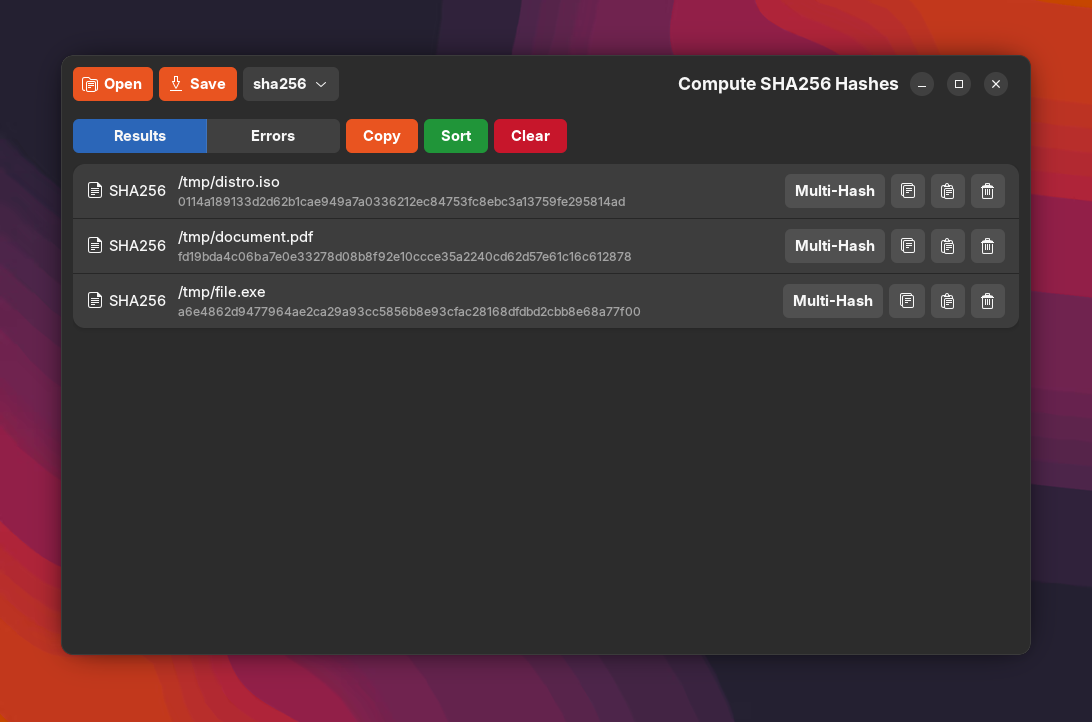
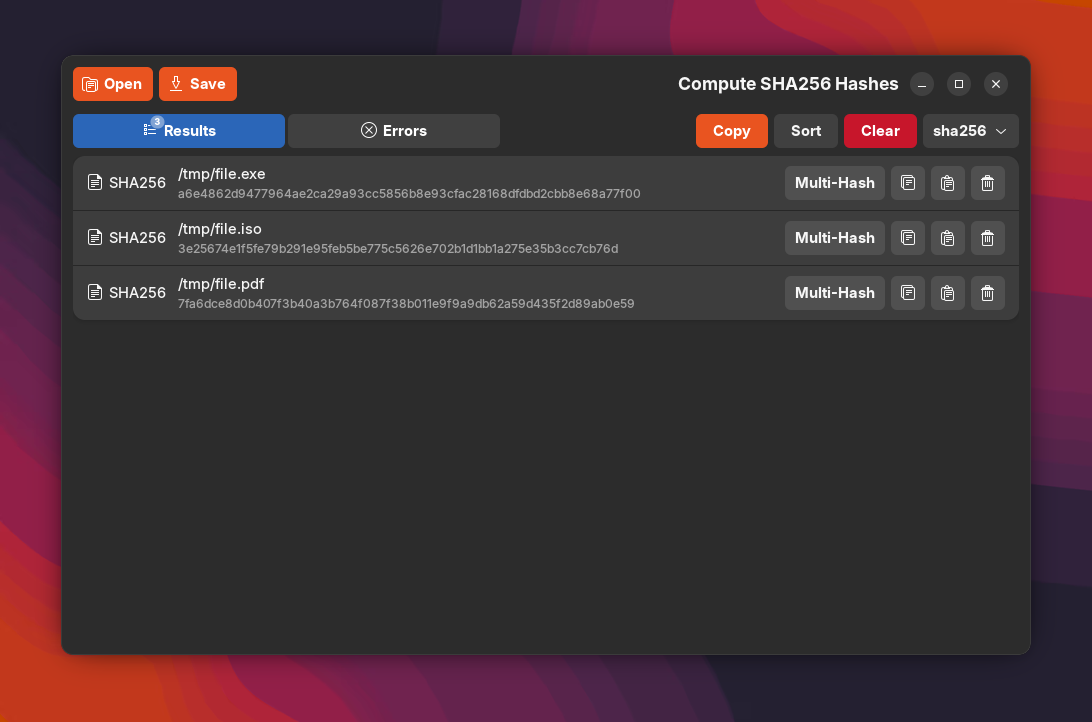
Improve has_results

diff --git a/compute-hash-app.py b/compute-hash-app.py
@@ -6,6 +6,7 @@ import subprocess
 import sys
 import threading
 from concurrent.futures import ThreadPoolExecutor
+from datetime import datetime
 from pathlib import Path
 from queue import Queue
 from typing import Literal
@@ -37,10 +38,26 @@ def get_logger(name: str) -> logging.Logger:
 logger = get_logger(__name__)
 
 css = b"""
+.view-switcher button {
+    background-color: #404040;
+    color: white;
+    transition: background-color 0.5s ease;
+    }
+.view-switcher button:nth-child(1):hover {
+    background-color: #2b66b8;
+}
+.view-switcher button:nth-child(1):active {
+    background-color: #1c457e;
+}
 .view-switcher button:nth-child(1):checked {
     background-color: #2b66b8;
 }
-
+.view-switcher button:nth-child(2):hover {
+    background-color: #c7162b;
+}
+.view-switcher button:nth-child(2):active {
+    background-color: #951323;
+}
 .view-switcher button:nth-child(2):checked {
     background-color: #c7162b;
 }
@@ -170,22 +187,20 @@ class HashResultRow(Adw.ActionRow):
 
     def on_delete_clicked(self, button: Gtk.Button):
         button.set_sensitive(False)
-        target = Adw.CallbackAnimationTarget.new(lambda opacity: self.set_opacity(opacity))
         anim = Adw.TimedAnimation(
             widget=self,
             value_from=1.0,
             value_to=0.0,
             duration=200,
-            target=target,
+            target=Adw.CallbackAnimationTarget.new(lambda opacity: self.set_opacity(opacity)),
         )
 
-        def on_fade_done(animation):
-            main_window: MainWindow = button.get_root()
-            if self.get_parent() == main_window.ui_results:
-                main_window.ui_results.remove(self)
-            else:
-                main_window.ui_errors.remove(self)
-            main_window.has_results()
+        def on_fade_done(_):
+            parent: Gtk.ListBox = self.get_parent()
+            parent.remove(self)
+            if parent.get_first_child() is None:
+                main_window: MainWindow = parent.get_root()
+                main_window.has_results()
 
         anim.connect("done", on_fade_done)
         anim.play()
@@ -234,6 +249,10 @@ class MainWindow(Adw.ApplicationWindow):
             description="Select files or folders to compute their hashes.",
             icon_name="text-x-generic-symbolic",
         )
+        self.empty_error_placeholder = Adw.StatusPage(
+            title="No Errors",
+            icon_name="emblem-ok-symbolic",
+        )
         self.toast_overlay = Adw.ToastOverlay()
         self.set_content(self.toast_overlay)
 
@@ -264,7 +283,6 @@ class MainWindow(Adw.ApplicationWindow):
         self.spinner.set_size_request(100, 100)
         self.spinner.set_valign(Gtk.Align.CENTER)
         self.spinner.start()
-
         self.main_box = Gtk.Box(orientation=Gtk.Orientation.VERTICAL, spacing=12)
 
         self.main_content_overlay.add_overlay(self.spinner)
@@ -304,9 +322,12 @@ class MainWindow(Adw.ApplicationWindow):
         self.view_stack.set_visible_child_name("results")
         self.main_box.append(self.view_stack)
 
+        self.view_stack.connect("notify::visible-child", self.has_results)
+
     def setup_buttons(self):
         self.button_open = Gtk.Button()
         self.button_open.add_css_class("suggested-action")
+        self.button_open.set_valign(Gtk.Align.CENTER)
         self.button_open.set_tooltip_text("Select files to add")
         self.button_open.connect("clicked", self.on_select_files_clicked)
         self.button_open_content = Adw.ButtonContent.new()
@@ -319,6 +340,7 @@ class MainWindow(Adw.ApplicationWindow):
         self.button_save = Gtk.Button()
         self.button_save.set_sensitive(False)
         self.button_save.add_css_class("suggested-action")
+        self.button_save.set_valign(Gtk.Align.CENTER)
         self.button_save.set_tooltip_text("Save results to file")
         self.button_save.connect("clicked", self.on_save_clicked)
         self.button_save_content = Adw.ButtonContent.new()
@@ -365,7 +387,6 @@ class MainWindow(Adw.ApplicationWindow):
 
         self.button_sort = Gtk.Button(label="Sort")
         self.button_sort.set_sensitive(False)
-
         self.button_sort.set_valign(Gtk.Align.CENTER)
         self.button_sort.set_tooltip_text("Sort results by path")
         self.button_sort.connect(
@@ -496,8 +517,10 @@ class MainWindow(Adw.ApplicationWindow):
             elif update[0] == "error":
                 _, fname, err, algo = update
                 self.add_result(fname, err, algo, is_error=True)
-                self.add_toast(f"<big>❌ <b>{err}</b></big>")
+                # self.add_toast(f"<big>❌ <b>{err}</b></big>")
                 iterations += 1
+            else:
+                return False
         return True  # Continue monitoring
 
     def hide_progress(self):
@@ -590,13 +613,12 @@ class MainWindow(Adw.ApplicationWindow):
         vadjustment = self.results_scrolled_window.get_vadjustment()
         current_value = vadjustment.get_value()
         target_value = vadjustment.get_upper() - vadjustment.get_page_size()
-        animation_target = Adw.CallbackAnimationTarget.new(lambda value: vadjustment.set_value(value))
         Adw.TimedAnimation(
             widget=self,
             value_from=current_value,
             value_to=target_value,
             duration=500,
-            target=animation_target,
+            target=Adw.CallbackAnimationTarget.new(lambda value: vadjustment.set_value(value)),
         ).play()
 
     def add_result(self, file_name: str, hash_value: str, algo: str, is_error: bool = False):
@@ -608,22 +630,31 @@ class MainWindow(Adw.ApplicationWindow):
             self.ui_results.append(row)
         return row
 
-    def has_results(self):
-        has_results = self.ui_results.get_first_child() is not None or self.ui_errors.get_first_child() is not None
-        self.toolbar_view.set_content(self.main_content_overlay if has_results else self.empty_placeholder)
-        self.view_switcher.set_sensitive(has_results)
-        self.button_save.set_sensitive(has_results)
-        self.button_copy_all.set_sensitive(has_results)
+    def has_results(self, *signal_from_view_stack):
+        has_results = self.ui_results.get_first_child() is not None
+        has_errors = self.ui_errors.get_first_child() is not None
+
+        self.view_switcher.set_sensitive(has_results or has_errors)
+        self.button_save.set_sensitive(has_results or has_errors)
+        self.button_copy_all.set_sensitive(has_results or has_errors)
         self.button_sort.set_sensitive(has_results)
-        self.button_clear.set_sensitive(has_results)
-        self.results_stack_page.set_badge_number(sum(has_results for r in self.ui_results) if has_results else 0)
-        self.errors_stack_page.set_badge_number(sum(has_results for r in self.ui_errors) if has_results else 0)
+        self.button_clear.set_sensitive(has_results or has_errors)
+        self.results_stack_page.set_badge_number(sum(1 for _ in self.ui_results) if has_results else 0)
+        self.errors_stack_page.set_badge_number(sum(1 for _ in self.ui_errors) if has_errors else 0)
+
+        current_page_name = self.view_stack.get_visible_child_name()
+        show_empty = (current_page_name == "results" and not has_results) or (current_page_name == "errors" and not has_errors)
+        relevant_placeholder = self.empty_placeholder if current_page_name == "results" else self.empty_error_placeholder
+        target = relevant_placeholder if show_empty else self.main_content_overlay
+        if self.toolbar_view.get_content() == target and not signal_from_view_stack:
+            return
+        self.toolbar_view.set_content(target)
         Adw.TimedAnimation(
-            widget=self.empty_placeholder,
-            value_from=1.0 if has_results else 0,
-            value_to=0 if has_results else 1.0,
+            widget=self,
+            value_from=0.1,
+            value_to=1.0,
             duration=500,
-            target=Adw.CallbackAnimationTarget.new(lambda opacity: self.empty_placeholder.set_opacity(opacity)),
+            target=Adw.CallbackAnimationTarget.new(lambda opacity: target.set_opacity(opacity)),
         ).play()
 
     def on_select_files_clicked(self, _):
@@ -640,11 +671,20 @@ class MainWindow(Adw.ApplicationWindow):
             callback=on_files_dialog_dismissed,
         )
 
-    def on_copy_all_clicked(self, button: Gtk.Button):
-        clipboard = button.get_clipboard()
+    def get_all_results(self):
         results_text = "\n".join(str(r) for r in self.ui_results)
         errors_text = "\n".join(str(r) for r in self.ui_errors)
-        clipboard.set(f"{results_text}\n{errors_text}".strip())
+        now = datetime.now().strftime("%B %d, %Y at %I:%H:%M %Z")
+        if results_text:
+            output = f"Results - Saved on {now}:\n{'-' * 40}\n{results_text}\n\n"
+        if errors_text:
+            output = f"{output}Errors - Saved on {now}:\n{'-' * 40}\n{errors_text}".strip()
+        return output
+
+    def on_copy_all_clicked(self, button: Gtk.Button):
+        clipboard = button.get_clipboard()
+        output = self.get_all_results()
+        clipboard.set(output)
         self.add_toast("<big>✅ Results copied to clipboard</big>")
 
     def on_save_clicked(self, widget):
@@ -658,9 +698,7 @@ class MainWindow(Adw.ApplicationWindow):
             path: str = local_file.get_path()
             try:
                 with open(path, "w", encoding="utf-8") as f:
-                    results_text = "\n".join(str(r) for r in self.ui_results)
-                    errors_text = "\n".join(str(r) for r in self.ui_errors)
-                    f.write(f"{results_text}\n{errors_text}".strip())
+                    f.write(self.get_all_results())
                 self.add_toast(f"<big>✅ Saved to <b>{path}</b></big>")
             except Exception as e:
                 self.add_toast(f"<big>❌ Failed to save: {e}</big>")
